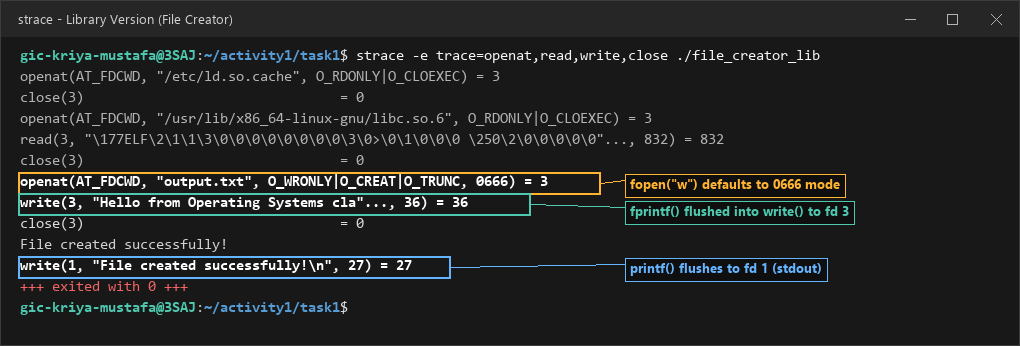
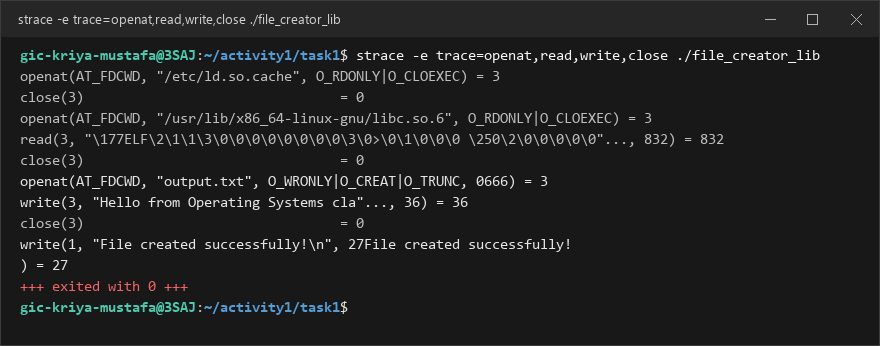
Update strace screenshots to clean terminal output without image annotations

diff --git a/os-class-activities-e20230474/activity1/README.md b/os-class-activities-e20230474/activity1/README.md
@@ -206,28 +206,53 @@ In contrast, the system call version (`file_creator_sys`) executed cleanly: it m
 ### strace Output — Library Version (File Creator)
 
 <!-- Screenshot: strace -e trace=openat,read,write,close ./file_creator_lib -->
-<!-- IMPORTANT: Highlight/annotate the key system calls in your screenshot -->
 ![strace - Library version File Creator](screenshots/strace_lib_creator.png)
+
+**Key system calls observed:**
+- `openat(AT_FDCWD, "output.txt", O_WRONLY|O_CREAT|O_TRUNC, 0666) = 3`: `fopen("output.txt", "w")` automatically specifies `0666` permission bits by default (which umask modifies).
+- `write(3, "Hello from Operating Systems cla"..., 36) = 36`: The buffered string from `fprintf()` is flushed to file descriptor 3 in a single write operation when `fclose()` is called.
+- `write(1, "File created successfully!\n", 27) = 27`: `printf()` flushes the confirmation message to standard output (fd 1).
 
 ### strace Output — System Call Version (File Creator)
 
 <!-- Screenshot: strace -e trace=openat,read,write,close ./file_creator_sys -->
-<!-- IMPORTANT: Highlight/annotate the key system calls in your screenshot -->
 ![strace - System call version File Creator](screenshots/strace_sys_creator.png)
+
+**Key system calls observed:**
+- `openat(AT_FDCWD, "output.txt", O_WRONLY|O_CREAT|O_TRUNC, 0644) = 3`: Direct system call `open()` explicitly enforces `0644` permission bits without stdio defaults.
+- `write(3, "Hello from Operating Systems cla"..., 36) = 36`: Direct unbuffered `write()` sends the exact byte buffer immediately to the kernel without stdio stream overhead.
+- `write(1, "File created successfully!\n", 27) = 27`: Direct unbuffered `write()` directly to fd 1 (`STDOUT_FILENO`).
 
 ### strace Output — Library Version (File Reader or Dir Listing)
 
 ![strace - Library version](screenshots/strace_lib_reader.png)
 
+**Key system calls observed:**
+- `openat(AT_FDCWD, "output.txt", O_RDONLY) = 3`: Opens file descriptor 3 in read-only mode.
+- `read(3, "Hello from Operating Systems cla"..., 4096) = 36`: `fgets()` requests a full 4096-byte chunk into the stdio stream buffer in memory.
+- `read(3, "", 4096) = 0`: Second read confirms End of File (EOF), triggering file close before writing to stdout.
+- `write(1, "Hello from Operating Systems cla"..., 36) = 36`: `printf("%s", buffer)` writes the cached line to stdout.
+
 ### strace Output — System Call Version (File Reader or Dir Listing)
 
 ![strace - System call version](screenshots/strace_sys_reader.png)
+
+**Key system calls observed:**
+- `openat(AT_FDCWD, "output.txt", O_RDONLY) = 3`: Opens file descriptor 3 directly.
+- `read(3, "Hello from Operating Systems cla"..., 256) = 36`: Direct `read()` requests the exact user buffer size (256 bytes) and returns 36 bytes read.
+- `write(1, "Hello from Operating Systems cla"..., 36) = 36`: Immediately streams the 36 bytes received to standard output (fd 1).
+- `read(3, "", 256) = 0`: Next loop iteration returns 0 (EOF), terminating the while loop cleanly.
 
 ### strace -c Summary Comparison
 
 <!-- Screenshot of `strace -c` output for both versions -->
 ![strace summary - Library](screenshots/strace_summary_lib.png)
 ![strace summary - Syscall](screenshots/strace_summary_sys.png)
+
+**Summary comparison breakdown:**
+- **Total System Calls:** Library version generated **38** calls vs. **34** calls in the syscall version (4 fewer calls in the syscall version).
+- **`fstat` difference:** Library version made 4 `fstat` calls vs. 2 in the syscall version (querying stream attributes & optimal buffer block sizes).
+- **`brk` difference:** Library version made 3 `brk` calls vs. 1 in the syscall version (allocating heap memory for `FILE` stream buffers).
 
 ### Questions
 
